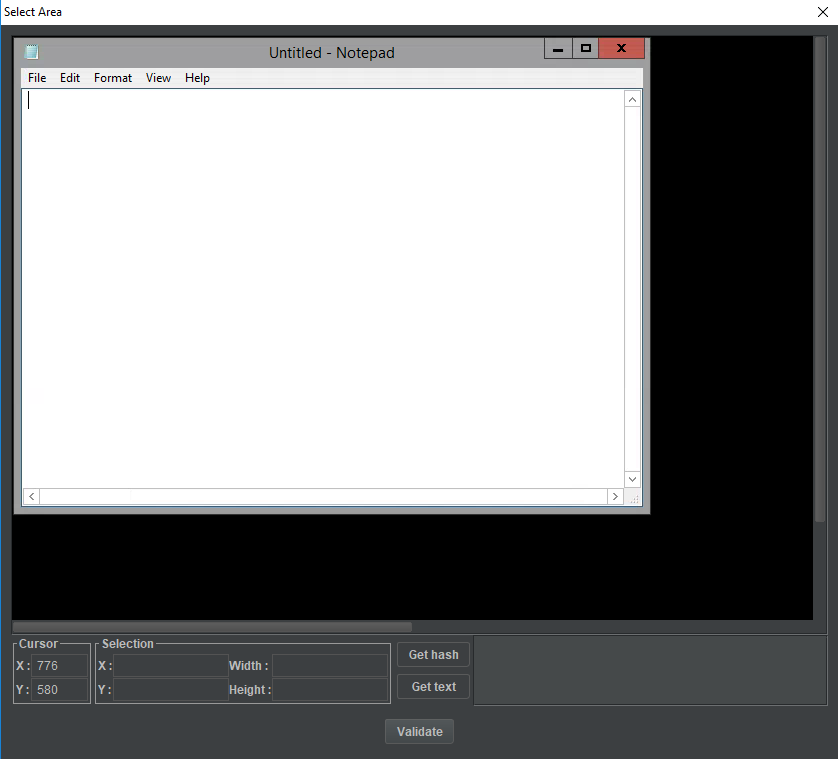
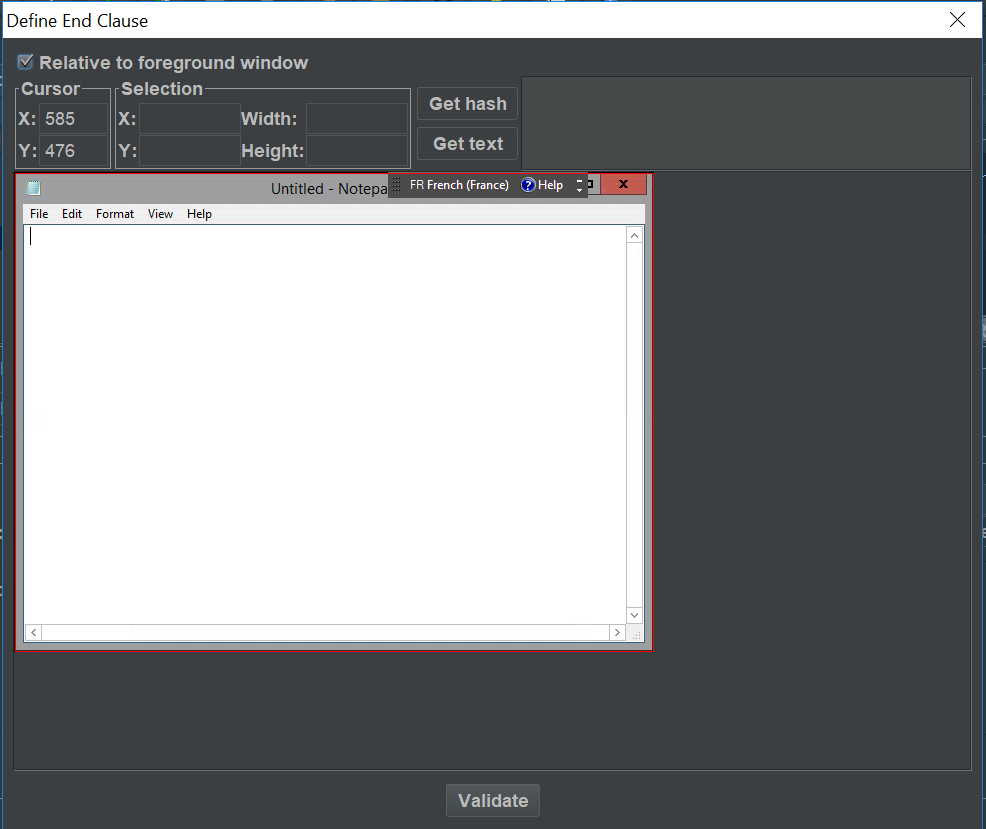
Update screenshots with last plugin GUIs Improve documentation

diff --git a/README.md b/README.md
@@ -13,40 +13,60 @@ At the end of sampling, you can check the results in regular JMeter listeners.
 
 ##Usage##
 
-####Pre-Requisites####
+###Pre-Requisites###
 
 **Ensure you read and follow instructions of PRE_REQUISITES.md**
 
-####Overview####
+###Steps###
 
-A Citrix Recording Template is available to facilitate the script creation.
+####Use tempalte Blazemeter Citrix Recording ####
+A Citrix Recording Template is available to ease the script creation.
 Click on Files → Templates... and select **Blazemeter Citrix Recording**.
 
-The template will add below elements :
+The template will add below elements:
 
 ![alt text](images/template_test_plan.png "Citrix Template overview")
 
-If you do not want to use the template, you can add a Citrix Recorder by right-clicking on Test Plan → add → Non-Test Elements → Citrix Recorder.
+####Update portal connection informations in it ####
+You need then to update in **UDV**:
+
+- citrix_portal_host to the Host name of your portal
+- citrix_app_name to the name of the application you want to test
+
+And in **UDV-Recording**:
+
+- citrix_login to the login on portal
+- citrix_passord to the password on portal
+
+Note that since JMeter 5.1, the new parameterized template will make this step optional as those 4 informations will be required 
+on template creation. 
+
+If you do not want to use the template (this is not advised), you can add a Citrix Recorder by right-clicking on Test Plan → add → Non-Test Elements → Citrix Recorder.
 Then, you will need to reference the Controller that contains the steps needed to download the application's ICA.
 
 Here is what the recorder looks like : 
 
 ![alt text](images/recorder.png "Citrix Recorder overview")
 
-####ICA Downloading####
+####Recorder configuration : ICA Downloading####
 
 Before you can start a recording, you must reference in the Citrix Recorder the Controller that contains the sequence of HTTP Requests 
-needed to download the ICA file. The Template already contains an example of a ICA Download and is referenced when you open it.
+needed to download the ICA file. 
+The Template already contains an example of a ICA Download and is referenced when you open it.
 
-To reference it, you'll do this in the Tree of **ICA File Downloading Controller**. The referenced controller should ideally be inside a **Test Fragment** as you’ll also need to reference it from **Module Controller** in the Thread Group that will run the test plan.
+To reference it, you do it in the Tree of **ICA File Downloading Controller**. 
 
 ![alt text](images/download_ica.png "Select DownloadIca")
 
+The referenced controller should ideally be inside a **Test Fragment** as you’ll also need to also reference it for regular 
+sampling from **Module Controller** in the Thread Group that will run the test plan
+
+####Start Recorder####
 Once done, click on the **Start Recording** button. You will see in the **Recorder status** the progress.
 
 ![alt text](images/recorder_status_started.png "ICA download panel")
 
-Then your citrix application will launch.
+Then your Citrix application will launch, you can view the HTTP download steps in the **View Results Tree** located under Test Plan
 
 ####Recording Actions####
 
@@ -82,8 +102,10 @@ The Target Controller is a controller in your JMeter testPlan where the created 
 ####Saving a recording ####
 
 To save a Citrix Recording, the Template comes with a **View Results Tree** located under **Citrix Recorder**.
-Just modify the **Filename** of the output file and recording will be saved in the XML file and be reloadable on demand in it 
-as with regular HTTP Recording.
+
+Just modify the **Filename** of the output file and recording will be saved in the XML file and be reloadable on demand in it as with regular HTTP Recording.
+
+Please note that if you add one yourself, ensure you click on **Configure** button and check all fields except *Save Field Names (CSV)*
 
 ![Saving Citrix Recording](images/vrt_saving_recording.png "Saving Recording")
 
@@ -96,11 +118,13 @@ In this section we will cover the 2 samplers this plugin adds to JMeter.
 
 This sampler is added when you click on the **Application Started** button of the Citrix Recorder.
 
-**ICA file path variable** contains the name of the variable that contains the path where the ica files are saved. 
+**ICA file path variable** contains the name of the variable (defaults to *citrix_ica_file*) that contains the path where the ica file is saved. 
+
 If you use the template you can see it in Test Fragment -> DownloadICA -> ClickApp -> ClickApp-0 -> **ICA File Saver**. 
 See below for **ICA File Saver** documentation.
 
-**Logon Timeout** field is computed by the **Citrix Recorder** and is the time between the launch of the citrix window and the moment the user clicks on the "Application Started" button. During sampling, it will be used as the maximum time to wait for application to start.
+**Timeout** field is computed by the **Citrix Recorder** and is the time between the launch of the citrix window and the moment the user clicks on the "Application Started" button. 
+During sampling, it will be used as the maximum time to wait for application to start.
 
 The End Clause panel will be explained in the **Citrix Interaction** section.
 
@@ -194,6 +218,7 @@ When the recording is done, click on the start button. It launches the sampling.
 ![Start Button](images/start_button.png "Start button")
 
 The sampling repeats the sequences you made during the recording by looking at the samplers informations.
+
 If everything has been setup correctly, you will see your citrix application starting and replaying everything. 
 At the end of the replay, the Citrix window closes even if you did not explicitly closed it in your recording.
 
